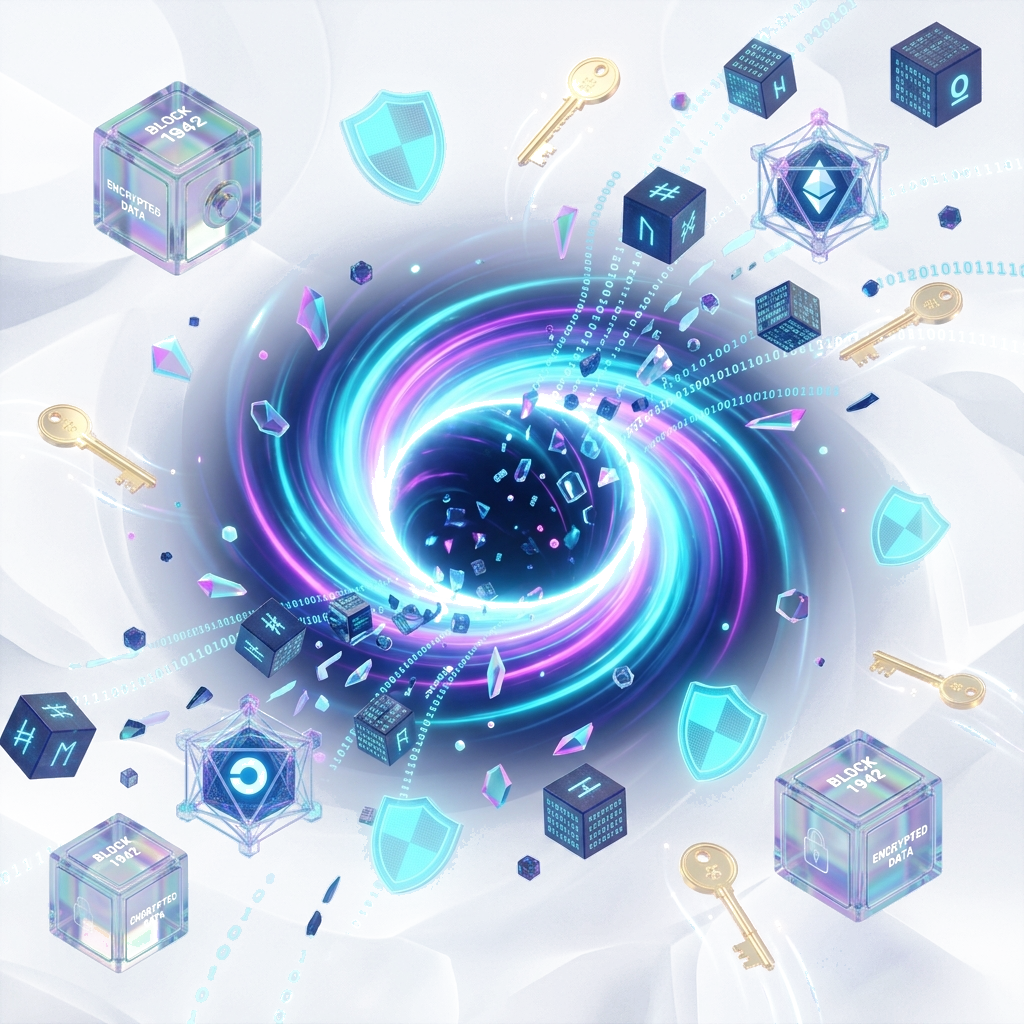
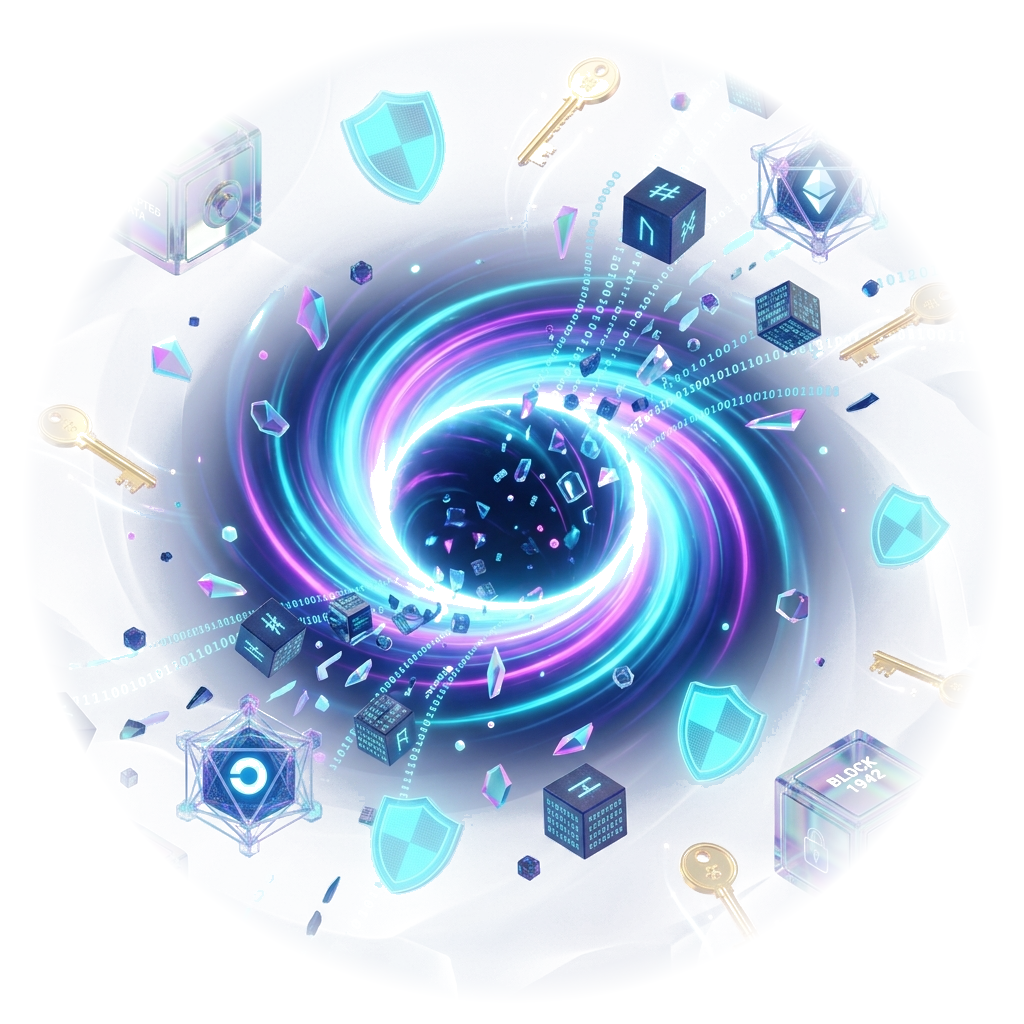
fix(hero): remove floating animation completely, keeping clean transparent PNG centerpiece perfectly static

diff --git a/landingpage/LandingPage.css b/landingpage/LandingPage.css
@@ -569,17 +569,9 @@ section {
   max-width: 520px;
   height: auto;
   object-fit: contain;
-  filter: drop-shadow(0 20px 40px rgba(2, 132, 199, 0.2)) drop-shadow(0 6px 16px rgba(168, 85, 247, 0.15));
-  animation: heroFloat 6s ease-in-out infinite;
-}
-
-@keyframes heroFloat {
-  0%, 100% {
-    transform: translateY(0);
-  }
-  50% {
-    transform: translateY(-10px);
-  }
+  filter: drop-shadow(0 15px 35px rgba(2, 132, 199, 0.18)) drop-shadow(0 4px 14px rgba(168, 85, 247, 0.12));
+  user-select: none;
+  pointer-events: none;
 }
 
 /* 3. ARCHITECTURE EXPERTISE SECTION */
